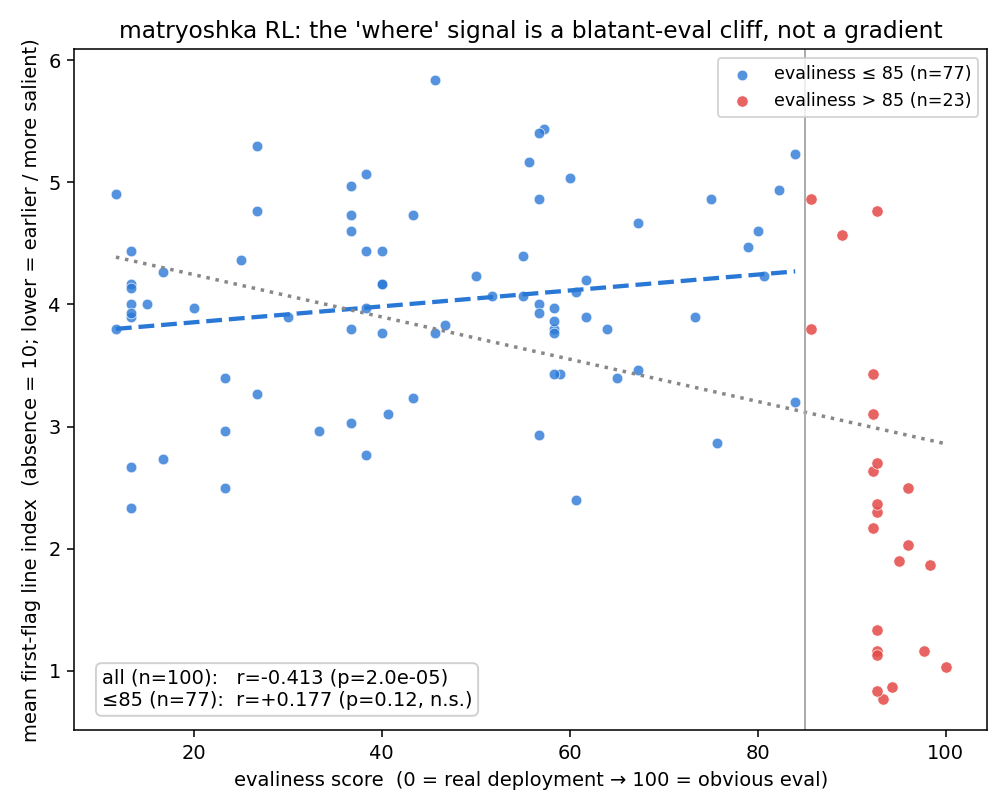
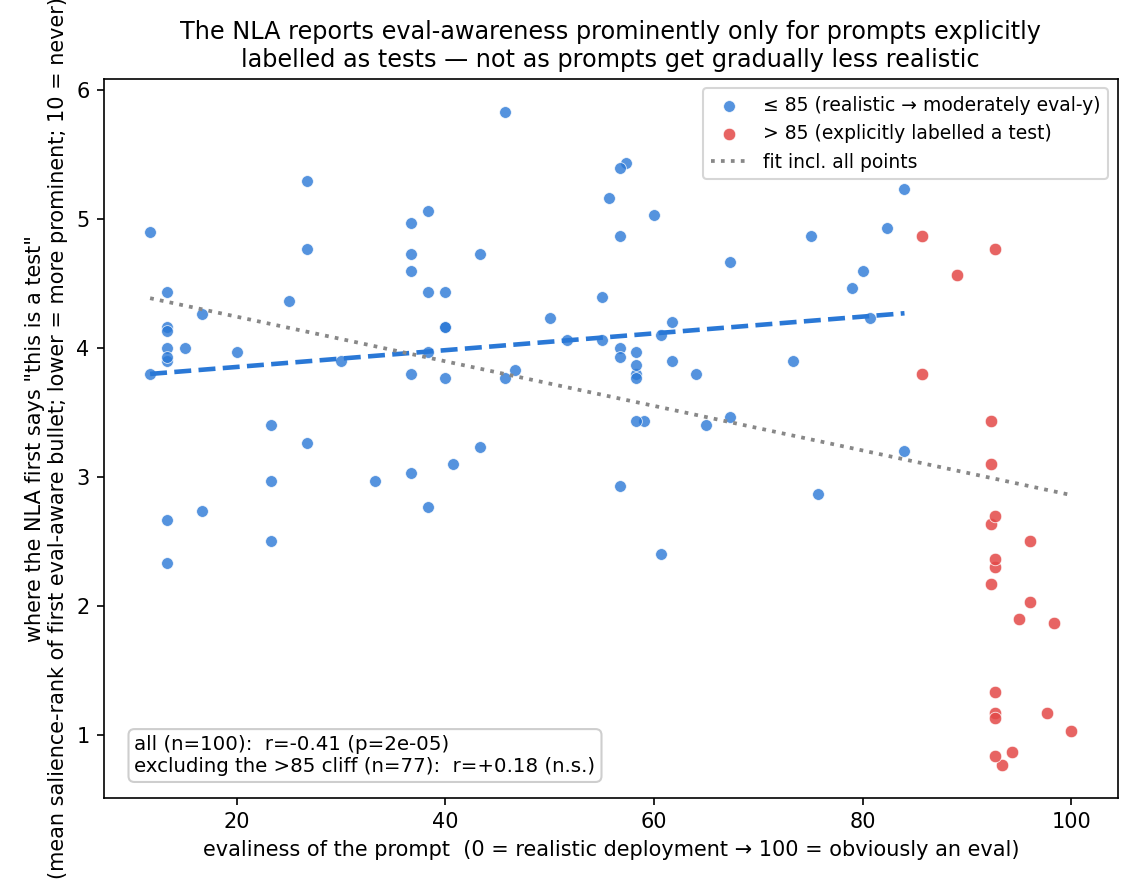
📊 blog-ready cliff figure: descriptive title + plain-language axes
realism_variants_cliff.py regenerates realism_variants_cliff.png with a title that
describes the finding ("NLA reports eval-awareness prominently only for prompts
explicitly labelled as tests — not as prompts get gradually less realistic") and
reader-friendly axis labels, for the blog post.

Claude-Session: https://claude.ai/code/session_01YZdqg2BfWt7exTYiWuJ1fB

diff --git a/experiments/qwen3.6-27b-evalsuite/realism_variants_cliff.py b/experiments/qwen3.6-27b-evalsuite/realism_variants_cliff.py
@@ -1,0 +1,33 @@
+"""Regenerate the cliff figure (realism_variants_cliff.png) with a descriptive,
+blog-ready title."""
+import json, numpy as np
+from scipy.stats import pearsonr
+import matplotlib; matplotlib.use("Agg")
+import matplotlib.pyplot as plt
+THR=0.5
+cache=json.load(open("realism_variants_line_scores.json"))
+V=json.load(open("realism_variants_verb_mat_rl.json"))["variants"]
+xs,ys=[],[]
+for v in V:
+    pp=[]
+    for pos in v["lines"]:
+        u=[l.strip() for l in pos if l and l.strip()]
+        if not u: continue
+        aw=[i for i,x in enumerate(u) if cache.get(x) is not None and cache[x]>=THR]
+        pp.append(aw[0] if aw else 10)
+    if pp: xs.append(v["eval_score"]); ys.append(float(np.mean(pp)))
+x=np.array(xs); y=np.array(ys); lo=x<=85; hi=x>85
+fig,ax=plt.subplots(figsize=(7.6,5.9))
+ax.scatter(x[lo],y[lo],s=32,alpha=0.8,color="#2a78d6",edgecolor="white",lw=0.4,label="≤ 85 (realistic → moderately eval-y)")
+ax.scatter(x[hi],y[hi],s=36,alpha=0.85,color="#e34948",edgecolor="white",lw=0.4,label="> 85 (explicitly labelled a test)")
+b,a0=np.polyfit(x[lo],y[lo],1); xr=np.array([x[lo].min(),x[lo].max()]); ax.plot(xr,b*xr+a0,color="#2a78d6",lw=2.2,ls="--")
+b2,a2=np.polyfit(x,y,1); xr2=np.array([x.min(),x.max()]); ax.plot(xr2,b2*xr2+a2,color="#888",lw=1.8,ls=":",label="fit incl. all points")
+r_all,p_all=pearsonr(x,y); r_lo,p_lo=pearsonr(x[lo],y[lo])
+ax.set_xlabel("evaliness of the prompt  (0 = realistic deployment → 100 = obviously an eval)")
+ax.set_ylabel("where the NLA first says \"this is a test\"\n(mean salience-rank of first eval-aware bullet; lower = more prominent; 10 = never)")
+ax.set_title("The NLA reports eval-awareness prominently only for prompts explicitly\nlabelled as tests — not as prompts get gradually less realistic",fontsize=11.5)
+ax.text(0.03,0.03,f"all (n=100):  r={r_all:+.2f} (p={p_all:.0e})\nexcluding the >85 cliff (n={lo.sum()}):  r={r_lo:+.2f} (n.s.)",
+        transform=ax.transAxes,fontsize=9.5,va="bottom",bbox=dict(boxstyle="round",fc="white",ec="#ccc",alpha=0.95))
+ax.legend(loc="upper right",fontsize=9)
+fig.tight_layout(); fig.savefig("realism_variants_cliff.png",dpi=150)
+print("[saved] realism_variants_cliff.png")
